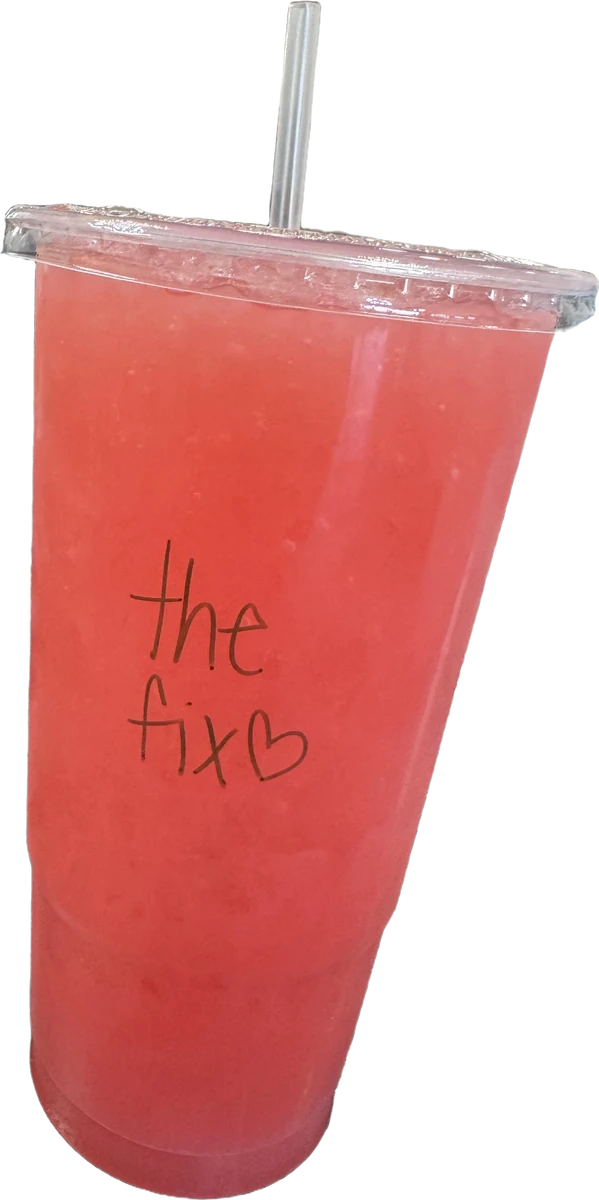
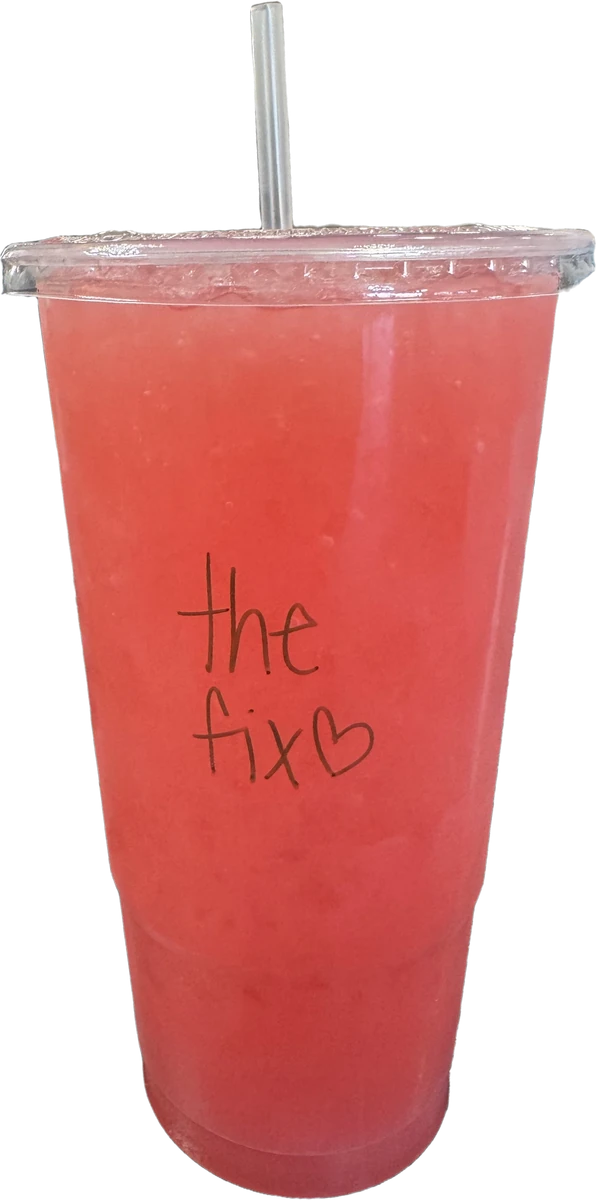
Audit: clean hero cups, and the desktop and phone layout fixes
Cups: the Rainbow and Sunset repaints were not clean at full size (blocks, a seam,
ragged edges) and had been judged from thumbnails. Both are now their own photo with
the hand removed by a GPT Image 2 edit, one cup per crop, matted and stood upright.
Pink stood upright; shakes sized to match the teas.

Desktop (1920/1440): sharp interior banner instead of a stretched cup crop; photo rows
start on the page wrap and fill wide screens; no focus-ring rules on click; stickers
kept inside the story; board cards on the wrap; the photo rows' label said "The Tower".

Phone (360/390/430): cup clears the drink panel; balanced headlines; board copy at the
top of each card so the next card cannot cover it; round arrows; one sticker; larger
small text. No overflow, no small tap targets, accesslint clean.

diff --git a/css/site.css b/css/site.css
@@ -1,5 +1,5 @@
-/* The Fix Energy & Nutrition Lounge — Norman, OK. Built 2026-09-15 on The Tower’s engine,
-   reskinned to The Fix’s own palette: black lounge, sign blue, menu-board yellow, wall neon pink. */
+/* The Fix Energy & Nutrition Lounge — Norman, OK. Built 2026-09-15 by Station.Solutions,
+   in The Fix’s own palette: black lounge, sign blue, menu-board yellow, wall neon pink. */
 :root{
   --black:#000; --ink:#0F0F11; --ink-2:#1A1A1E; --bone:#F4EFE8; --bone-2:#E8E1D6;
   --line:rgba(244,239,232,.14); --line-ink:rgba(15,15,17,.14);
@@ -46,7 +46,7 @@ main>*{pointer-events:auto}
 .mark{width:40px;height:40px;flex:none;display:block;border-radius:50%;box-shadow:0 0 0 1px rgba(244,239,232,.16)}
 .lockup-text{display:flex;flex-direction:column;line-height:1}
 .lockup-text b{font-family:var(--wordmark);font-weight:400;font-size:27px;line-height:.9;letter-spacing:.02em;text-transform:uppercase}
-.lockup-text small{font-family:var(--mono);font-size:9px;letter-spacing:.2em;text-transform:uppercase;opacity:.75;margin-top:3px;white-space:nowrap}
+.lockup-text small{font-family:var(--mono);font-size:10.5px;letter-spacing:.18em;text-transform:uppercase;opacity:.8;margin-top:3px;white-space:nowrap}
 .nav{display:flex;gap:28px}
 .nav a{font-family:var(--mono);font-size:12px;letter-spacing:.14em;text-transform:uppercase;text-decoration:none;opacity:.8;position:relative;display:inline-block;padding:7px 2px}
 .nav a::after{content:"";position:absolute;left:2px;right:2px;bottom:1px;height:1px;background:currentColor;transform:scaleX(0);transform-origin:left;transition:transform .3s}
@@ -79,8 +79,11 @@ main>*{pointer-events:auto}
 .slot.is-vis{visibility:visible;opacity:1}
 .slot canvas{position:absolute;inset:0;width:100%;height:100%}
 .slot .poster{position:absolute;top:50%;left:50%;height:74%;width:auto;max-width:none;translate:-50% -50%;filter:drop-shadow(0 30px 50px rgba(0,0,0,.55))}
+/* the two shakes have no straw, so at the same height their cups read a size larger than the teas */
+.slot[data-i="3"] .poster,.slot[data-i="4"] .poster{height:64%;top:52%}
 @media (max-width:820px){
-.slot .poster{height:52%;top:53%}}  /* fit by height, centred — matches how the canvas draws the frames */
+.slot .poster{height:47%;top:47.5%}
+.slot[data-i="3"] .poster,.slot[data-i="4"] .poster{height:40%;top:49%}}  /* fit by height, centred — matches how the canvas draws the frames */
 .slot canvas{opacity:0}
 .slot.is-live canvas{opacity:1}
 .slot.is-live .poster{opacity:0}
@@ -117,7 +120,7 @@ main>*{pointer-events:auto}
 @keyframes spin{to{transform:rotate(360deg)}}
 
 .selector{position:absolute;z-index:8;left:0;right:0;bottom:calc(28px + env(safe-area-inset-bottom));display:flex;align-items:center;justify-content:center;gap:22px;padding:0 var(--gutter)}
-.arrow{width:46px;height:46px;border:1px solid var(--line);border-radius:50%;display:grid;place-items:center;color:var(--bone);transition:border-color .3s,background .3s,color .3s,transform .3s}
+.arrow{flex:none;width:46px;height:46px;border:1px solid var(--line);border-radius:50%;display:grid;place-items:center;color:var(--bone);transition:border-color .3s,background .3s,color .3s,transform .3s}
 .arrow svg{width:18px;height:18px}
 .arrow:hover{border-color:var(--bone);background:var(--bone);color:var(--ink);transform:scale(1.08)}
 .counter{display:flex;gap:8px;font-size:13px;min-width:74px;justify-content:center}
@@ -125,7 +128,7 @@ main>*{pointer-events:auto}
 #cur{display:inline-block;min-width:2ch;text-align:right}
 .dchips{display:flex;gap:8px;min-width:0;overflow-x:auto;scrollbar-width:none;-ms-overflow-style:none;max-width:min(60vw,720px);padding:2px}
 .dchips::-webkit-scrollbar{display:none}
-.dchip{flex:none;padding:9px 15px;border-radius:999px;border:1px solid var(--line);font-family:var(--mono);font-size:11px;letter-spacing:.12em;text-transform:uppercase;white-space:nowrap;color:var(--bone);opacity:.7;transition:opacity .25s,border-color .25s,background .25s,color .25s}
+.dchip{flex:none;padding:9px 15px;border-radius:999px;border:1px solid var(--line);font-family:var(--mono);font-size:12px;letter-spacing:.12em;text-transform:uppercase;white-space:nowrap;color:var(--bone);opacity:.78;transition:opacity .25s,border-color .25s,background .25s,color .25s}
 .dchip:hover{opacity:1;border-color:var(--bone)}
 .dchip.is-on{opacity:1;background:var(--accent);border-color:var(--accent);color:#000}
 .dots{display:flex;gap:6px}
@@ -152,7 +155,7 @@ main>*{pointer-events:auto}
 /* ---------- story ---------- */
 .story{position:relative;background:var(--bone);color:var(--ink);padding:clamp(80px,10vw,150px) 0;overflow:hidden}
 .kicker{display:inline-block;margin-bottom:18px;opacity:.7}
-.h-display{margin:0;font-family:var(--disp);font-weight:400;text-transform:uppercase;line-height:.86;letter-spacing:-.005em;font-size:clamp(52px,9.2vw,150px)}
+.h-display{margin:0;text-wrap:balance;font-family:var(--disp);font-weight:400;text-transform:uppercase;line-height:.86;letter-spacing:-.005em;font-size:clamp(52px,9.2vw,150px)}
 .h-display .w{display:inline-block;overflow:hidden;vertical-align:bottom;padding-bottom:.06em;margin-bottom:-.06em}
 .h-display .w>span{display:inline-block;will-change:transform}
 .lede{font-size:clamp(17px,1.6vw,21px);line-height:1.5;margin:22px 0 0;max-width:56ch;opacity:.9}
@@ -181,16 +184,18 @@ main>*{pointer-events:auto}
 .sipup-head .h-display .w{overflow:visible;padding:0 .06em}
 .sipup-head .h-display{font-family:var(--script);font-weight:700;text-transform:none;font-size:clamp(60px,10.5vw,180px);line-height:.95;letter-spacing:0;color:#EAF7FF;text-shadow:0 0 6px rgba(43,179,243,.95),0 0 22px rgba(43,179,243,.7),0 0 54px rgba(255,95,162,.45)}
 
-/* ---------- sit down sip up: parallax photo strips ---------- */
+/* ---------- the lounge: parallax photo strips ---------- */
 .sipup{background:var(--black);color:var(--bone);padding:clamp(80px,10vw,150px) 0 clamp(40px,5vw,72px);overflow:hidden}
 .sipup-head{margin-bottom:clamp(28px,4vw,56px)}
 /* draggable / swipeable: a native horizontal scroller, with the scroll-linked pan yielding on first touch */
 .strip{overflow-x:auto;overflow-y:hidden;padding:10px 0;cursor:grab;scrollbar-width:none;-ms-overflow-style:none;overscroll-behavior-x:contain}
 .strip::-webkit-scrollbar{display:none}
 .strip.is-drag{cursor:grabbing}
+.strip:focus{outline:none}
+.strip:focus-visible{outline:2px solid var(--brand);outline-offset:-2px}
 .strip img{user-select:none;-webkit-user-drag:none}
-.strip-row{display:flex;gap:14px;width:max-content}
-.strip img{height:clamp(200px,30vh,360px);width:auto;border-radius:12px;flex:none}
+.strip-row{display:flex;gap:14px;width:max-content;padding-inline:max(var(--gutter), calc((100vw - 1360px) / 2))}
+.strip img{height:clamp(200px,min(24vw,42vh),460px);width:auto;border-radius:12px;flex:none}
 
 .sipup-note{margin:26px auto 0;width:min(1360px,100% - 2*var(--gutter));opacity:.72}
 .polaroid{margin:0 0 26px;padding:12px 12px 14px;background:#fff;border-radius:6px;box-shadow:0 24px 60px rgba(15,15,17,.18);width:min(320px,80%);will-change:transform}
@@ -202,9 +207,11 @@ main>*{pointer-events:auto}
 .chip{font-family:var(--disp);font-weight:400;text-transform:uppercase;font-size:clamp(26px,3.2vw,52px);line-height:1;padding:14px 20px 12px;border:1px solid var(--line);border-radius:999px;color:var(--bone);transition:background .3s,color .3s;will-change:transform,opacity}
 .chip:hover{background:var(--c);color:#000}
 .chip-photo{padding:0;border:0;width:clamp(84px,9vw,140px);height:clamp(84px,9vw,140px);border-radius:16px;overflow:hidden;background:#fff}
-.chip-photo img{width:100%;height:100%;object-fit:cover}
+.chip-photo a{display:block;width:100%;height:100%}
+.chip-photo img{width:100%;height:100%;object-fit:cover;transition:transform .3s}
+.chip-photo a:hover img{transform:scale(1.06)}
 .visit-photo{position:relative;height:clamp(320px,62vh,640px);overflow:hidden;margin-bottom:clamp(48px,6vw,96px)}
-.visit-photo img{position:absolute;left:0;top:-12%;width:100%;height:124%;object-fit:cover;will-change:transform}
+.visit-photo img{position:absolute;left:0;top:-12%;width:100%;height:124%;object-fit:cover;object-position:50% 58%;will-change:transform}
 .visit-photo-tag{position:absolute;left:var(--gutter);bottom:22px;padding:10px 14px;background:rgba(0,0,0,.55);color:var(--bone);border-radius:999px}
 .visit{padding-top:0}
 
@@ -212,15 +219,15 @@ main>*{pointer-events:auto}
 .board{background:var(--black);color:var(--bone);padding:clamp(80px,10vw,150px) 0 0}
 .board .sec-head{padding-bottom:clamp(36px,5vw,64px)}
 .stack{position:relative}
-.family{position:sticky;top:var(--head-h);height:calc(100vh - var(--head-h));height:calc(100svh - var(--head-h));display:grid;grid-template-columns:1fr 1fr;align-items:center;gap:6vw;padding:0 var(--gutter);background:var(--ink);border-top:1px solid var(--line);border-radius:28px 28px 0 0;overflow:hidden;will-change:transform;transform-origin:50% 0}
+.family{position:sticky;top:var(--head-h);height:calc(100vh - var(--head-h));height:calc(100svh - var(--head-h));display:grid;grid-template-columns:1fr 1fr;align-items:center;gap:6vw;padding:0 max(var(--gutter), calc((100vw - 1360px) / 2));background:var(--ink);border-top:1px solid var(--line);border-radius:28px 28px 0 0;overflow:hidden;will-change:transform;transform-origin:50% 0}
 .family::after{content:"";position:absolute;inset:0;background:#000;opacity:var(--dim,0);pointer-events:none;z-index:3}
 .family::before{content:"";position:absolute;inset:0;background:radial-gradient(ellipse 50% 60% at 78% 50%,var(--c) 0%,rgba(0,0,0,0) 70%);opacity:.45;pointer-events:none}
 .family:nth-child(2){background:#141418}.family:nth-child(3){background:#191920}.family:nth-child(4){background:#1e1e26}
 .fam-n{position:relative;font-family:var(--disp);font-weight:400;font-size:clamp(160px,30vw,520px);line-height:.8;color:transparent;-webkit-text-stroke:2px var(--c);justify-self:end;will-change:transform}
-.fam-copy{position:relative;max-width:34ch}
+.fam-copy{position:relative;max-width:40ch}
 .fam-copy .mono{opacity:.6;display:block;margin-bottom:22px}
-.family h3{margin:0 0 16px;font-family:var(--disp);font-weight:400;text-transform:uppercase;font-size:clamp(56px,8vw,132px);line-height:.86}
-.family p{margin:0;font-size:clamp(17px,1.5vw,21px);opacity:.85}
+.family h3{margin:0 0 18px;text-wrap:balance;font-family:var(--disp);font-weight:400;text-transform:uppercase;font-size:clamp(56px,8vw,132px);line-height:.94}
+.family p{margin:0;font-size:clamp(17px,1.4vw,23px);line-height:1.5;opacity:.85}
 .board-note{margin:0;padding:clamp(28px,4vw,48px) 0;opacity:.7;max-width:60ch;position:relative;background:var(--black)}
 
 /* ---------- visit ---------- */
@@ -259,7 +266,7 @@ main>*{pointer-events:auto}
 .foot-grid{display:grid;grid-template-columns:1.4fr 1fr auto;gap:32px;align-items:start}
 .foot-lockup{display:flex;gap:14px;align-items:center}
 .foot-lockup b{display:block;font-family:var(--wordmark);font-weight:400;font-size:34px;text-transform:uppercase;line-height:.9;letter-spacing:.02em}
-.foot-lockup span{font-family:var(--mono);font-size:10px;letter-spacing:.2em;text-transform:uppercase;opacity:.7}
+.foot-lockup span{font-family:var(--mono);font-size:11px;letter-spacing:.2em;text-transform:uppercase;opacity:.7}
 /* the rule above is for the subline; the wordmark inside <b> keeps its own face */
 .foot-lockup b .fx-word{font:inherit;letter-spacing:inherit;opacity:1}
 .foot address{font-style:normal;line-height:1.9;opacity:.85}
@@ -296,21 +303,24 @@ main>*{pointer-events:auto}
   .quotes{grid-template-columns:1fr}
   .huds{width:min(34vw,320px)}
   .family{grid-template-columns:1fr}
-  .fam-n{position:absolute;right:var(--gutter);top:50%;translate:0 -50%;font-size:clamp(160px,40vw,420px);opacity:.5}
+  /* the next card slides up over the BOTTOM of this one, so the copy lives at the top and the
+     decorative numeral takes the bottom corner, which is covered first */
+  .family{align-items:start;padding-top:clamp(44px,9vh,96px)}
+  .fam-n{position:absolute;right:var(--gutter);top:auto;bottom:clamp(20px,5vh,56px);translate:none;font-size:clamp(150px,34vw,360px);opacity:.34}
 }
 @media (max-width:820px){
   /* phones: the chips take the whole row between the arrows. The 01/05 counter goes — the named
      buttons already say which drink you are on, and its width was squeezing long names out of view. */
   .counter{display:none}
   .dchips{flex:1 1 auto;max-width:none}
-  .dchip{padding:9px 13px;font-size:10.5px}
+  .dchip{padding:10px 14px;font-size:11.5px}
 
   :root{--head-h:64px}
   .nav{display:none}
   .order{padding:9px 13px;font-size:12px}
   .order b{display:none}
   .lockup-text b{font-size:23px}
-  .lockup-text small{font-size:7.5px;letter-spacing:.14em}
+  .lockup-text small{font-size:9px;letter-spacing:.12em}
   .mark{width:34px;height:34px}
   .eyebrow{top:calc(var(--head-h) + 10px)}
   .eyebrow span:last-child,.eyebrow .sep{display:none}
@@ -329,9 +339,10 @@ main>*{pointer-events:auto}
   .proof{grid-template-columns:repeat(2,1fr)}
   .proof li:nth-child(3){border-left:0;padding-left:0}
   .bomb .sticker{width:84px;height:84px}
-  .bomb-it:nth-child(1),.bomb-it:nth-child(4){display:none}
+  .bomb-it:nth-child(1),.bomb-it:nth-child(3),.bomb-it:nth-child(4){display:none}
+  .bomb-it:nth-child(2){left:auto !important;right:10px}
   .family{padding:0 var(--gutter);border-radius:20px 20px 0 0}
-  .fam-n{font-size:52vw}
+  .fam-n{font-size:44vw}
   .ambassador{grid-template-columns:1fr}
   .foot-grid{grid-template-columns:1fr}
   .foot-word{font-size:22vw}

diff --git a/index.html b/index.html
@@ -17,7 +17,7 @@
 <link rel="preconnect" href="https://fonts.gstatic.com" crossorigin>
 <link href="https://fonts.googleapis.com/css2?family=Anton&family=Bebas+Neue&family=Archivo+Black&family=Caveat:wght@600;700&family=Manrope:wght@400;500;600;700&family=Space+Mono:wght@400;700&display=swap" rel="stylesheet">
 <link rel="preload" as="image" href="img/01-cup.webp">
-<link rel="stylesheet" href="css/site.css?v=202609160956">
+<link rel="stylesheet" href="css/site.css?v=202609161032">
 </head>
 <body>
 
@@ -178,7 +178,6 @@
     <div class="strip-row">
       <img src="img/p/g08-s.webp" alt="Two layered teas held up together, red into orange and blue into green into yellow" loading="lazy" decoding="async">
       <img src="img/p/g09-s.webp" alt="A sprinkled shake in front of the get your daily FIX neon sign" loading="lazy" decoding="async">
-      <img src="img/p/g01-s.webp" alt="Inside The Fix: black tables, TVs and the yellow neon ceiling light" loading="lazy" decoding="async">
       <img src="img/p/g06-s.webp" alt="A green tea held up outside the storefront under THE FIX sign" loading="lazy" decoding="async">
       <img src="img/p/g12-s.webp" alt="The lounge corner: couch, glass table and the striped mural" loading="lazy" decoding="async">
       <img src="img/p/fbcover-s.webp" alt="A blue tea held up under THE FIX sign on a sunny day" loading="lazy" decoding="async">
@@ -224,7 +223,7 @@
       <li class="chip" style="--c:#F6E24B">Fibre</li>
       <li class="chip" style="--c:#FF5FA2">Beauty booster</li>
       <li class="chip" style="--c:#2BB3F3">Pre-workout</li>
-      <li class="chip chip-photo"><img src="img/p/g13-s.webp" alt="The Fix menu board: The Power behind Liftoff, the Prolessa shot and Rebuild protein" loading="lazy" decoding="async"></li>
+      <li class="chip chip-photo"><a href="img/p/g13.webp" target="_blank" rel="noopener" aria-label="Open their menu board photo full size"><img src="img/p/g13-s.webp" alt="The Fix menu board: The Power behind Liftoff, the Prolessa shot and Rebuild protein" loading="lazy" decoding="async"></a></li>
     </ul>
     <p class="board-note">Flavours rotate — point at a colour and they'll build it. The full board and today's prices are at the counter, or call and ask.</p>
   </div>
@@ -232,7 +231,7 @@
 
 <!-- ============ VISIT ============ -->
 <section id="visit" class="visit" data-theme="light">
-  <div class="visit-photo" aria-hidden="true"><img src="img/p/g06.webp" alt="" decoding="async" loading="lazy"><span class="visit-photo-tag mono">2100 W Lindsey St, Ste 104</span></div>
+  <div class="visit-photo" aria-hidden="true"><img src="img/p/g01-w.webp" alt="" decoding="async" loading="lazy"><span class="visit-photo-tag mono">2100 W Lindsey St, Ste 104</span></div>
   <div class="wrap">
     <div class="visit-grid">
       <div>
@@ -248,7 +247,7 @@
         <div><dt class="mono">Mon – Fri</dt><dd>7:00 am – 7:00 pm</dd></div>
         <div><dt class="mono">Saturday</dt><dd>10:00 am – 7:00 pm</dd></div>
         <div><dt class="mono">Sunday</dt><dd>10:00 am – 7:00 pm</dd></div>
-        <div class="hours-note"><dt class="mono">Holidays</dt><dd>They have a habit of being the ones still open. Instagram has the call.</dd></div>
+        <div class="hours-note"><dt class="mono">Holidays</dt><dd>Holiday hours go up on their Instagram.</dd></div>
       </dl>
     </div>
     <div class="ambassador reveal">
@@ -292,10 +291,10 @@
   </div>
 </footer>
 
-<script src="js/vendor/gsap.min.js?v=202609160956"></script>
-<script src="js/vendor/ScrollTrigger.min.js?v=202609160956"></script>
-<script src="js/vendor/lenis.min.js?v=202609160956"></script>
-<script src="js/manifest.js?v=202609160956"></script>
-<script src="js/loadout.js?v=202609160956"></script>
+<script src="js/vendor/gsap.min.js?v=202609161032"></script>
+<script src="js/vendor/ScrollTrigger.min.js?v=202609161032"></script>
+<script src="js/vendor/lenis.min.js?v=202609161032"></script>
+<script src="js/manifest.js?v=202609161032"></script>
+<script src="js/loadout.js?v=202609161032"></script>
 </body>
 </html>

diff --git a/js/loadout.js b/js/loadout.js
@@ -1,4 +1,4 @@
-/* The Fix Energy & Nutrition Lounge — drinks engine. Built 2026-09-15 on The Tower’s LOADOUT engine.
+/* The Fix Energy & Nutrition Lounge — drinks engine. Built 2026-09-15 by Station.Solutions.
    Five cutout cups, each one cut out of The Fix’s own photographs, drawn over the page, with the
    name BEHIND the cup, particles behind and in front, mouse tilt, idle bob, velocity streaks, code-driven 3D
    swipes between cups, and scroll-driven motion through every section below (pinned horizontal lineup,
@@ -392,7 +392,7 @@
     st.addEventListener('click', function (e) { if (moved > 6) { e.preventDefault(); e.stopPropagation(); } }, true);
     st.setAttribute('tabindex', '0');
     st.setAttribute('role', 'region');
-    st.setAttribute('aria-label', 'Photos from The Tower, row ' + (si + 1) + ' of 2, scroll sideways');
+    st.setAttribute('aria-label', 'Photos from The Fix, row ' + (si + 1) + ' of 2, scroll sideways');
   });
   /* the ends wrap, so neither arrow is ever a dead control */
   function step(d) { switchTo((curVis + d + N) % N, d); }
@@ -440,12 +440,10 @@
   }
   if (bomb) {
     var B = [
-      ['4.4 ★', 'GOOGLE', '#2BB3F3', '#04121B', 6, 12, 1.1, -14],
-      ['FIX', 'FAM', '#fff', '#111', 78, 4, 0.7, 10],
-      ['DAILY', 'FIX', '#F6E24B', '#111', 44, 14, 1.4, -6],
-      ['CAFFEINE', 'DEALER', '#FF5FA2', '#111', 2, 62, 0.9, 8],
-      ['THE', 'OG', '#7ED957', '#111', 62, 82, 1.2, -18],
-      ['SEVEN', 'DAYS', '#FF5A2B', '#111', 30, 90, 0.6, 14]
+      ['4.4 ★', 'GOOGLE', '#2BB3F3', '#04121B', 4, 6, 1.1, -14],
+      ['FIX', 'FAM', '#fff', '#111', 84, 3, 0.7, 10],
+      ['DAILY', 'FIX', '#F6E24B', '#111', 44, 12, 1.2, -6],
+      ['SEVEN', 'DAYS', '#FF5FA2', '#111', 24, 15, 0.8, 12]
     ];
     bomb.innerHTML = B.map(function (b) { return '<div class="bomb-it" style="position:absolute;left:' + b[4] + '%;top:' + b[5] + '%" data-speed="' + b[6] + '" data-rot="' + b[7] + '">' + stickerSVG(b[0], b[1], b[2], b[3]) + '</div>'; }).join('');
   }
@@ -464,7 +462,7 @@
       gsap.from($$('.fam-copy > *', f), { y: 40, opacity: 0, stagger: 0.08, duration: 0.8, ease: 'power3.out', scrollTrigger: { trigger: f, start: 'top 70%', once: true } });
     });
 
-    /* 2b. SIT DOWN SIP UP — photo strips slide opposite ways with scroll; polaroid + storefront parallax; chips pop in */
+    /* 2b. THE LOUNGE — photo strips slide opposite ways with scroll; polaroid + storefront parallax; chips pop in */
     $$('.strip').forEach(function (st) {
       var dir = +st.getAttribute('data-dir') || -1, row = $('.strip-row', st);
       /* the strip is a real scroller now, so the page-scroll pan writes scrollLeft — and hands over
@@ -508,7 +506,7 @@
     var story = $('#story');
     $$('.bomb-it').forEach(function (b) {
       var sp = +b.getAttribute('data-speed'), rot = +b.getAttribute('data-rot');
-      gsap.fromTo(b, { y: 160 * sp, rotation: rot }, { y: -160 * sp, rotation: rot + (rot > 0 ? 24 : -24), ease: 'none', scrollTrigger: { trigger: story, start: 'top bottom', end: 'bottom top', scrub: true } });
+      gsap.fromTo(b, { y: 90 * sp, rotation: rot }, { y: -90 * sp, rotation: rot + (rot > 0 ? 24 : -24), ease: 'none', scrollTrigger: { trigger: story, start: 'top bottom', end: 'bottom top', scrub: true } });
     });
     $$('.quote').forEach(function (q, i) {
       gsap.from(q, { x: i % 2 ? 80 : -80, y: 30, opacity: 0, rotation: i % 2 ? 2 : -2, duration: 0.9, ease: 'power3.out', scrollTrigger: { trigger: q, start: 'top 88%', once: true } });
